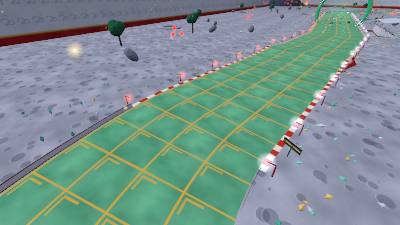
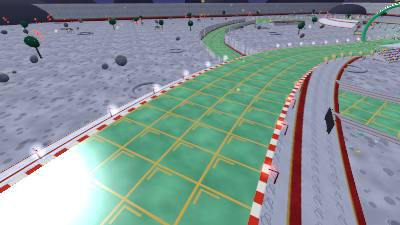
Chang'e: a trefoil knot, over and under itself
The lap is laid out from the trefoil knot's equations, the road's height
its third, so it ties itself round the Moon in three lobes and passes over
or under itself at all three crossings: the Palace Amongst Stars high over
Ten Suns, the Jade Portal's deck over the Astral Planes, the Lonely Moon
over Float in the Bright Night. The jump, the Lyre of Lightning's strings
in their walled cut and the Riding on Moonbeams shortcut stay.

Claude-Session: https://claude.ai/code/session_01MwKJbfE6sfLuUzU5RBUasY

diff --git a/src/tracks/changE.ts b/src/tracks/changE.ts
@@ -1,23 +1,38 @@
 import { TrackBuilder, offsetPose, type Pose } from './builder';
 import type { BranchDef, TrackDef } from './track';
 
-const K = 1.25;
-const START: Pose = { x: 20 * K, z: -220 * K, h: Math.PI / 2 };
+const K = 1.1;
+/**
+ * The lap is a trefoil knot, three lobes and three crossings, the road
+ * rising and falling with it so that at every crossing one road passes over
+ * the other: this many builder units to the knot's unit, and its height,
+ * up and down.
+ */
+const R = 88;
+const H = 9;
+/** A point on the knot at angle `t`, heading along it. */
+function knot(t: number): Pose {
+  const dx = Math.cos(t) + 4 * Math.cos(2 * t);
+  const dz = -Math.sin(t) + 4 * Math.sin(2 * t);
+  return { x: (Math.sin(t) + 2 * Math.sin(2 * t)) * R * K, z: (Math.cos(t) - 2 * Math.cos(2 * t)) * R * K, h: Math.atan2(dx, dz) };
+}
+/** The knot's height at angle `t`: over, under, over, as a knot goes. */
+const lift = (t: number) => -H * Math.sin(3 * t);
+const STEP = Math.PI / 6;
+const START: Pose = knot(0);
 const FINISH = 45;
 /** Sailing the Moon-Sea swings out round the Sea of Tears in three arcs of this radius and turn; Riding on Moonbeams runs straight across. */
-const SEA_R = 42;
-const SEA_TURN = 70;
-/** Cerebral Asteroids: this many humps, this high. */
-const ASTEROIDS = 3;
-const ASTEROID = 2.2;
+const SEA_R = 40;
+const SEA_TURN = 65;
 /** Float in the Bright Night: the Moon's gravity, as a share of the usual. */
 const MOON_G = 0.6;
-/** How deep the Lyre of Lightning is sunk between its walls, and the walls. */
-const DEPTH = 6;
+/** The Lyre of Lightning's walls. */
 const WALL = 6;
-/** The Palace Amongst Stars: a climb to this height and over the top. */
-const PALACE = 10;
-/** The White Rabbit: this many hops. */
+/** How far past the leap the road runs level before it dips, so no cut opens beside the gap. */
+const AFTER_LEAP = 25;
+/** How far the Palace Amongst Stars runs level at the top, over the road below. */
+const PALACE_HOLD = 120;
+/** The White Rabbit: this many hops, this high, on top of the knot's rise. */
 const HOPS = 4;
 const HOP = 1.4;
 
@@ -32,94 +47,88 @@ const HOP = 1.4;
  * the bright night; eclipse sun and moon; lonely moon. The world is the
  * Moon: grey dust and craters, her palace on a hill, osmanthus trees in
  * gold flower, red lanterns floating up into a black sky full of stars. The
- * lap is her lyre: along its soundbox, Ten Suns (two kickers), Sailing the
- * Moon-Sea swinging out round the Sea of Tears; up the right arm, a horn
- * bowing out and curling in (the Scorching Sands, the Cerebral Asteroids'
- * humps, the Jade Portal), Float in the Bright Night (the Moon's gravity,
- * a leap); across the yoke, the Lyre of Lightning, sunk 6 m between marble
- * walls with its strings across the road, plucked one after another; and
- * down the left arm, the Astral Planes' dance, the climb to the Palace
- * Amongst Stars, the White Rabbit's hops, the Eclipse and the Lonely Moon
- * home. Shortcut: Riding on Moonbeams, straight across the Sea of Tears, on
- * the final lap.
+ * lap is a trefoil knot, the voyage tying itself round the Moon: three
+ * lobes, three crossings, and the road rising onto decks and sinking into
+ * cuts as it goes, so it passes over and under itself, over, under, over.
+ * Ten Suns (two kickers), the Cerebral Asteroids, the Scorching Sands up on
+ * a deck, the Jade Portal, Float in the Bright Night (the Moon's gravity, a
+ * leap), the Lyre of Lightning sunk between marble walls with its strings
+ * across the road, plucked one after another; Sailing the Moon-Sea, up to
+ * the Palace Amongst Stars, the Astral Planes, the Eclipse in a cut, the
+ * White Rabbit's hops on the high deck, and the Lonely Moon home. Shortcut:
+ * Riding on Moonbeams, straight across the Sea of Tears, on the final lap.
  */
 export function buildChangE(): TrackDef {
   const b = new TrackBuilder(START, 'Ten Suns', { halfWidth: 11, surface: 'jade' });
   b.scale = K;
-  b.straight(30).mark('kick1').kicker().straight(30).mark('kick2').kicker().straight(40);
-
-  // Up the right arm: a horn, bowing out and curling in.
-  b.section('Scorching Sands', { halfWidth: 10.5, wallHeight: 1.2, surface: 'jade' });
-  b.mark('sands');
-  b.arc(70, -70);
-  b.section('Cerebral Asteroids', { halfWidth: 10, surface: 'jade' });
-  b.mark('asteroids');
-  b.straight(30).arc(120, 25).straight(30);
-  b.mark('asteroidsEnd');
-  b.section('The Jade Portal', { halfWidth: 10, wallHeight: 1.2, surface: 'jade' });
-  b.mark('portal');
-  b.arc(60, -90);
-  b.mark('portalEnd');
+  const to = (k: number) => b.hermiteTo(knot(k * STEP));
+  const deck = (name: string, o: { halfWidth: number; wallHeight?: number; gravity?: number } = { halfWidth: 10, wallHeight: 1.2 }) =>
+    b.section(name, { surface: 'jade', bridge: true, ...o });
+  b.straight(25).mark('kick1').kicker().straight(25).mark('kick2').kicker().straight(10);
+  b.mark('w0');
+  to(1).mark('w1');
+  b.section('Cerebral Asteroids', { halfWidth: 10, wallHeight: 1.2, surface: 'jade' });
+  to(2).mark('w2');
+  deck('Scorching Sands');
+  to(3).mark('w3');
+  deck('The Jade Portal');
+  to(4).mark('w4');
   // Through the portal: the Moon's gravity, and a leap.
   b.section('Float in the Bright Night', { halfWidth: 10, wallHeight: 1.2, surface: 'jade', gravity: MOON_G });
-  b.mark('float');
-  b.straight(10).mark('ramp').elevate(0).rise(18, 3);
+  b.straight(5).mark('ramp').elevate(0).rise(18, 3);
   b.gap(14, 20);
   b.elevate(0).straight(10);
   b.mark('floatEnd');
-  b.arc(45, -45);
-
-  // Across the yoke: the strings of the lyre, made of lightning, across the road between marble walls.
+  to(5).mark('w5');
+  // Sunk between marble walls: the strings of the lyre, made of lightning, across the road.
   b.section('Lyre of Lightning', { halfWidth: 9, wallHeight: WALL, surface: 'jade' });
   b.mark('lyre');
-  b.straight(STRINGS_FROM + STRINGS * STRING_GAP + 30);
-  b.mark('lyreEnd');
-  b.straight(10);
-
-  // On along the yoke, swinging out round the sea of tears.
+  to(6).mark('w6');
   b.section('Sailing the Moon-Sea', { halfWidth: 10.5, surface: 'jade' });
-  b.mark('sea');
-  b.straight(10);
+  b.straight(5);
   b.mark('beamFrom');
   b.arc(SEA_R, SEA_TURN).arc(SEA_R, -2 * SEA_TURN).arc(SEA_R, SEA_TURN);
   b.mark('beamTo');
-  b.straight(20);
-
-  // Down the left arm.
+  b.straight(5);
+  b.mark('seaEnd');
+  to(7).mark('w7');
+  deck('Palace Amongst Stars');
+  to(8).mark('w8');
   b.section('Astral Planes', { halfWidth: 9.5, wallHeight: 1.2, surface: 'jade' });
-  b.mark('planes');
-  b.arc(45, -45);
-  b.arc(28, -40).arc(28, 80).arc(28, -80).arc(28, 40);
-  b.mark('planesEnd');
-  b.section('Palace Amongst Stars', { halfWidth: 10, surface: 'jade' });
-  b.mark('palace');
-  b.arc(60, -90);
-  b.straight(10);
-  b.mark('palaceEnd');
-  b.section('White Rabbit', { halfWidth: 10, surface: 'jade' });
-  b.mark('rabbit');
-  b.arc(120, 25).straight(10);
-  b.mark('rabbitEnd');
-  b.section('Eclipse', { halfWidth: 10.5, wallHeight: 1.2, surface: 'jade' });
-  b.mark('eclipse');
-  b.arc(70, -70);
+  to(9).mark('w9');
+  b.section('Eclipse', { halfWidth: 10, wallHeight: 1.2, surface: 'jade' });
+  to(10).mark('w10');
+  deck('White Rabbit');
+  to(11).mark('w11');
   b.section('Lonely Moon', { halfWidth: 11, surface: 'jade' });
-  b.mark('lonely');
-  b.turnTo(offsetPose(START, -FINISH * K), 50);
+  b.hermiteTo(offsetPose(START, -FINISH * K));
   b.section('Finish Straight', { halfWidth: 11, surface: 'jade' });
   b.mark('finish');
   b.straight(FINISH);
 
   const m = (name: string, d = 0) => b.marks[name].s + d * K;
-  b.profile(m('asteroids'), m('asteroidsEnd'), (u) => ASTEROID * Math.sin(Math.PI * ASTEROIDS * u) ** 2);
-  ease(b, m('lyre', 5), 0, m('lyre', 40), -DEPTH);
-  b.profile(m('lyre', 40), m('lyreEnd', -30), () => -DEPTH, 10);
-  ease(b, m('lyreEnd', -30), -DEPTH, m('lyreEnd', 10), 0);
-  // Up to the palace and over the top.
-  ease(b, m('palace'), 0, m('palace', 80), PALACE);
-  plunge(b, m('palace', 80), PALACE, m('rabbit', 10), 0);
-  // The rabbit's hops.
-  b.profile(m('rabbit', 15), m('rabbitEnd'), (u) => HOP * Math.sin(Math.PI * HOPS * u) ** 2);
+  // The knot's rise and fall, each point at its own angle on the knot; the kickers, the leap and the moon-sea's swing level.
+  const ends = [m('w0'), m('w1'), m('w2'), m('w3'), m('w4'), m('w5'), m('w6'), m('w7'), m('w8'), m('w9'), m('w10'), m('w11'), m('finish')];
+  const tOf = (s: number) => {
+    for (let k = 0; k + 1 < ends.length; k++) if (s <= ends[k + 1]) return (k + (s - ends[k]) / (ends[k + 1] - ends[k])) * STEP;
+    return 2 * Math.PI;
+  };
+  /** The knot's height from `from` to `to`, its angles there stretched to run from t0 to t1. */
+  const knotted = (from: number, to: number, t0: number, t1: number) => {
+    const a = tOf(from);
+    const z = tOf(to);
+    b.profile(from, to, (u) => lift(t0 + ((tOf(from + (to - from) * u) - a) / (z - a)) * (t1 - t0)));
+  };
+  knotted(m('kick2', 12), m('w4'), 0, 4 * STEP);
+  b.profile(m('floatEnd'), m('floatEnd', AFTER_LEAP), () => 0, 10);
+  knotted(m('floatEnd', AFTER_LEAP), m('w6'), 4 * STEP, 6 * STEP);
+  knotted(m('seaEnd'), m('w7'), 6 * STEP, 7 * STEP);
+  knotted(m('w7'), m('finish'), 7 * STEP, 12 * STEP);
+  // The Palace stays up among the stars until it has passed over Ten Suns, then comes down.
+  b.profile(m('w7'), m('w7', PALACE_HOLD), () => H, 10);
+  b.profile(m('w7', PALACE_HOLD), m('w8'), (u) => H * (1 - u * u * (3 - 2 * u)));
+  // The rabbit's hops, on the high deck.
+  b.profile(m('w10', 20), m('w11', -20), (u) => lift(tOf(m('w10', 20) + (m('w11', -20) - m('w10', 20)) * u)) + HOP * Math.sin(Math.PI * HOPS * u) ** 2);
 
   const main = b.finish(true);
   const beam = buildMoonbeams(b.marks.beamFrom, b.marks.beamTo);
@@ -133,23 +142,23 @@ export function buildChangE(): TrackDef {
     pits: [...b.pits, ...beam.pits],
     boostPads: [
       { s: 40, length: 8, lateral: 0, halfWidth: 2.5 },
-      { s: at('portalEnd', 2), length: 8, lateral: 0, halfWidth: 2.5 },
-      { s: at('planesEnd', 5), length: 8, lateral: 0, halfWidth: 2.5 },
+      { s: at('w4', -20), length: 8, lateral: 0, halfWidth: 2.5 },
+      { s: at('w9', 20), length: 8, lateral: 0, halfWidth: 2.5 },
     ],
-    checkpoints: ['sands', 'portal', 'float', 'lyre', 'sea', 'planes', 'palace', 'rabbit', 'eclipse'].map((k) => b.marks[k].s / main.length),
+    checkpoints: ['w1', 'w2', 'w3', 'w4', 'w5', 'w6', 'w7', 'w8', 'w9', 'w10', 'w11'].map((k) => b.marks[k].s / main.length),
     laps: 3,
     bounds: 440,
     landmarks: [
       { kind: 'jadePortal', ribbon: -1, s: 6 },
-      { kind: 'jadePortal', ribbon: -1, s: at('portalEnd', 1) },
-      { kind: 'moonPalace', ribbon: -1, s: at('palace', 60), lateral: 160 },
+      { kind: 'jadePortal', ribbon: -1, s: at('w4', -3) },
+      { kind: 'moonPalace', ribbon: -1, s: at('w7', 30), lateral: -330 },
     ],
     itemBoxes: [
       { s: 75, count: 4 },
-      { s: at('sands', 20), count: 4 },
-      { s: at('lyre', 15), count: 3 },
-      { s: at('palace', 30), count: 3 },
-      { s: at('eclipse', 20), count: 4 },
+      { s: at('w2', 30), count: 4 },
+      { s: at('lyre', 20), count: 3 },
+      { s: at('w7', 40), count: 3 },
+      { s: at('w9', 40), count: 4 },
       { s: beam.boxes, count: 1, ribbon: 0, double: true },
     ],
     hazards: [{ kind: 'strings', at: strings, period: 4.4 }],
@@ -162,16 +171,6 @@ export function buildChangE(): TrackDef {
 const STRINGS = 5;
 const STRING_GAP = 14;
 const STRINGS_FROM = 45;
-
-/** Eases the road's height from y0 at arc length s0 to y1 at s1. */
-function ease(b: TrackBuilder, s0: number, y0: number, s1: number, y1: number): void {
-  b.profile(s0, s1, (u) => y0 + (y1 - y0) * u * u * (3 - 2 * u));
-}
-
-/** Drops the road from y0 at s0 to y1 at s1, falling away at once over the top (a crest to fly off) and easing out at the bottom. */
-function plunge(b: TrackBuilder, s0: number, y0: number, s1: number, y1: number): void {
-  b.profile(s0, s1, (u) => y0 + (y1 - y0) * Math.sin((Math.PI * u) / 2));
-}
 
 /**
  * Riding on Moonbeams: a beam of moonlight laid straight across the Sea of

diff --git a/tests/tracks-silver-cord.test.ts b/tests/tracks-silver-cord.test.ts
@@ -85,7 +85,7 @@ describe('Silver Cord Cup', () => {
     expect(new Set(all).size).toBe(all.length);
   });
 
-  it("is laid out after its song: Theia's two orbits tangled in tiers, Set's tornado, Chang'e's lyre on the Moon, Gilgamesh's thirteen winds", () => {
+  it("is laid out after its song: Theia's two orbits tangled in tiers, Set's tornado, Chang'e's knot on the Moon, Gilgamesh's thirteen winds", () => {
     const section = (def: TrackDef, name: string) => def.main.sections.find((s) => s.name === name)!;
     const theia = buildTheia();
     for (const n of ['The Glowing Thread', 'Higher Divine', 'Force of Destiny', 'Ticking Clock', 'Spiritual Rebirth', 'Fate Intertwined', 'The Impact', 'The Snap', 'Dance with Theia', 'Meet Our Maker', 'Mortal Coil', "Theia's Void", 'Gravitational Waves', 'Astral Beach']) expect(section(theia, n), n).toBeTruthy();
@@ -133,6 +133,10 @@ describe('Silver Cord Cup', () => {
     const lyre = section(moon, 'Lyre of Lightning');
     expect('at' in strings && strings.at.length).toBe(5);
     for (const s of 'at' in strings ? strings.at : []) expect(s > lyre.from && s < lyre.to).toBe(true);
+    // A trefoil knot: it crosses itself three times, one road over the other each time.
+    const knot = crossings(new Track(moon));
+    expect(knot.length).toBe(3);
+    for (const dy of knot) expect(dy).toBeGreaterThan(6);
 
     const gil = buildGilgamesh();
     for (const n of ['Walls of Uruk', 'Fiery Temper', 'Shamash Combat', 'A Prayer from the Peaks', 'Glorious Photon', 'Bone-Dried Swamplands', 'The Scorpion Pass', 'Gemstone Trees', 'The Razorback', 'Thirteen Winds', 'Killed the Bull', 'Crossed the Sea', 'The Flood', 'Land of Bone', 'House of Dust']) expect(section(gil, n), n).toBeTruthy();
@@ -436,6 +440,24 @@ describe('hazards that help when you use them', () => {
   });
 });
 
+/** Where the main road crosses itself: for each crossing, the least height between the two roads there. */
+function crossings(track: Track): number[] {
+  const sp = track.spline;
+  const found: { i: number; j: number; dy: number }[] = [];
+  for (let i = 0; i < sp.count; i += 4) {
+    for (let j = i; j < sp.count; j += 4) {
+      const along = sp.dist[j] - sp.dist[i];
+      if (Math.min(along, sp.length - along) < 120) continue;
+      if (Math.hypot(sp.px[i] - sp.px[j], sp.pz[i] - sp.pz[j]) > 4) continue;
+      const dy = Math.abs(track.main.heightAt(sp.dist[i]) - track.main.heightAt(sp.dist[j]));
+      const near = found.find((c) => Math.abs(sp.dist[c.i] - sp.dist[i]) < 60 && Math.abs(sp.dist[c.j] - sp.dist[j]) < 60);
+      if (near) near.dy = Math.min(near.dy, dy);
+      else found.push({ i, j, dy });
+    }
+  }
+  return found.map((c) => c.dy);
+}
+
 /** A kart sitting on a hazard's line across the road, `lateral` metres to the right of the hazard's pose. */
 function aside(p: HazardPose, lateral: number): KartState {
   const k = kartAt(p);
@@ -448,7 +470,7 @@ function aside(p: HazardPose, lateral: number): KartState {
 const HEIGHTS: { name: string; build: () => TrackDef; top: number; bottom: number }[] = [
   { name: 'Theia', build: buildTheia, top: 9, bottom: -5 },
   { name: 'Set', build: buildSet, top: 13, bottom: -5 },
-  { name: "Chang'e", build: buildChangE, top: 9, bottom: -5 },
+  { name: "Chang'e", build: buildChangE, top: 9, bottom: -7 },
   { name: 'Gilgamesh', build: buildGilgamesh, top: 12, bottom: -5 },
 ];
 

diff --git a/SPEC.md b/SPEC.md
@@ -139,7 +139,7 @@ A new cup is an album's: four of its songs, in album order, and the cup goes int
 1. Check the songs first. Pick four the band plays live with recordings on the Live Music Archive (for Track song and to transcribe the remix from); tabs on Ultimate Guitar settle the riffs and chords. If four can't be found, stop.
 2. Read each song's lyrics, start to finish, and what the band has said about it (interviews, the album's notes, the video). Note its story, who's in it, where it happens, its images and its key lines; the track is built from these, not from the title alone.
 3. Draw each track from its song's content: the world (where the song happens, or its video), the lap's shape (Elbow is an arm, Muckraker a rake, Cut Throat Boogie a razor), the section names (its lines and story, in the order the song tells them), a landmark, a hazard that acts out the song, and a shortcut. No two tracks of the cup alike.
-4. Lay out the lap in `src/tracks/<id>.ts` with `TrackBuilder` (straight, arc, kicker, rise, gap, bridge, profile, marks, `turnTo` to close the loop). Mix it up: bends and esses between the straights, hills and a crest, a sunk section, a jump, no long run of straight road. A tangled lap is better than a plain one: where the road crosses itself, stack it in tiers on bridges (`bridge` sections, more than 6 m between one level and the next: a deck over the ground, a top tier over that, a cut under it), as Theia's three levels and Gilgamesh's viaduct do. A lap much longer than the rest is two laps a race (`laps: 2`). `enrich.ts` adds humps, pads and launchers on its own; a launcher needs a jump gap or a clear, even straight, so give each track a main-road jump. A shortcut opens on a lap rule (final lap, from lap 2, every lap).
+4. Lay out the lap in `src/tracks/<id>.ts` with `TrackBuilder` (straight, arc, kicker, rise, gap, bridge, profile, marks, `turnTo` to close the loop). Mix it up: bends and esses between the straights, hills and a crest, a sunk section, a jump, no long run of straight road. A tangled lap is better than a plain one: where the road crosses itself, stack it in tiers on bridges (`bridge` sections, more than 6 m between one level and the next: a deck over the ground, a top tier over that, a cut under it), as Theia's three levels, Chang'e's knot and Gilgamesh's viaduct do. A lap much longer than the rest is two laps a race (`laps: 2`). `enrich.ts` adds humps, pads and launchers on its own; a launcher needs a jump gap or a clear, even straight, so give each track a main-road jump. A shortcut opens on a lap rule (final lap, from lap 2, every lap).
 5. Wire it: the tracks into `RAW_TRACK_LIST` and the cup into `CUPS` (`src/tracks/index.ts`; the cups after it shift, so update the index-based tests), new landmark kinds, themes, hazards and surfaces in `track.ts`, the world in `themes.ts`, `textures.ts`, `trackDetail.ts` (STYLES), `trackLife.ts` (LIFE), `trackView.ts` and the generator's palettes, and the cup's scenery and landmarks in `src/render/<cup>.ts`.
 6. The hazard: in `src/items/hazards.ts`, a pure function of time with poses and a collide (a hit, and a reward for playing it right, with a cooldown); `isSheet`, `HOPPABLE` and `RAMMABLE` where they apply; its look in `itemViews.ts`, its callouts in `game.ts` and its sound in `sfx.ts`.
 7. The songs: `TRACK_SONGS` in `audio/songs.ts`; live recordings with `tools/bootlegs.mjs`, each trimmed to the music with `tools/live-edges.py` (`start` and `end`) and evened with `tools/bootleg-starts.mjs` (`gain`).
@@ -293,11 +293,11 @@ New hazards, each with a way to use it: eyes (an eye opens over the road and an 
 
 ### The Silver Cord Cup
 
-After The Silver Cord (2023), the band's synth album about the silver cord that ties the soul to the body, and the old gods: four of its songs in album order, each the band plays live, each track laid out after its song's lyrics (its world, its lap's shape, its section names and its hazard), a lap and final-lap remix of it, and live recordings of it for Track song. Race order: Theia, Set, Chang'e, Gilgamesh. Theia and Gilgamesh are long laps that tangle over themselves on bridges in tiers, so their races are two laps.
+After The Silver Cord (2023), the band's synth album about the silver cord that ties the soul to the body, and the old gods: four of its songs in album order, each the band plays live, each track laid out after its song's lyrics (its world, its lap's shape, its section names and its hazard), a lap and final-lap remix of it, and live recordings of it for Track song. Race order: Theia, Set, Chang'e, Gilgamesh. Theia, Chang'e and Gilgamesh tangle over themselves on bridges in tiers; Theia and Gilgamesh are long laps, so their races are two laps.
 
 1. Theia (Theia): the planet that hits the young Earth and makes the Moon, "a force of destiny, fate intertwined with that of earth"; when it hits, "the silver cord did snap". The young Earth under a vast and honeyed sky, a black crust cooling over the magma ocean, glowing through every crack, Theia huge in the sky and coming on, on a road of braided silver cord. Two orbits tangled: the Glowing Thread (two kickers), the Higher Divine, the Force of Destiny, the Ticking Clock's six ticks and Spiritual Rebirth round one orbit; Fate Intertwined right across the map and back over the Glowing Thread on an 8 m deck, the Impact over the crossing, the Snap (a leap over a crack of magma), Dance with Theia, Meet Our Maker and the Mortal Coil (a spiral, up on a deck over the Ticking Clock) round the other, down into Theia's Void, sunk 8 m between walls of crust, silver cords across it (taut, drive through and they sling you on; fraying, then snapping and lashing back to the walls: lashed, you spin), the Gravitational Waves, and the Astral Beach on the top tier, 16 m up over the Impact and Fate Intertwined, home. Three levels at the crossing. Shortcut: the Silver Cord itself, a bridge immortal and unspoken straight across a magma lake, there on the first lap and snapped on the last. Landmarks: a gate of black glass spires with the cord slung between them, and Theia in the sky. Scenery: magma pools, glass spires, steam vents, spirits drifting up, silver threads rising into the sky
 2. Set (Set): the jackal-headed god of the desert, storms and chaos, "God of duality and king of the fight, right eye the sun and left the moon's light"; "slay the mighty Set". The red land at the edge of day and night, the sun going down one side and the moon up the other, obelisks and the god's statues, a colossus of Set sat in the sand, on a road of sandstone carved with hieroglyphs. Through the Desert (two kickers), out along the Snout of a Jackal and back round its tip, the Tail of a Snake, Moonbeams over a crest, the Quantum Foam, the Tornado (a full turn climbing to 14 m over the road below) and Thrown Around off the top, Bones Did Shatter (a leap over a ravine), Slay the Mighty Set sunk 6 m between temple walls, his two eyes rolling across the road past each other (touch the sun and you're scorched and spun; through the moon, a moonbeam boost), Day into Night (squeezed narrowest), Eighty Years of Conflict, and Hieroglyphic home. Shortcut: the Tomb, straight through a pyramid, unsealed from lap 2
-3. Chang'e (Chang'e): the goddess of the Moon, her lyre of flesh and bone strung with lightning, 2500 volts; the jade portal, the moon-sea of tears, the palace amongst the stars, the white rabbit beside her. The Moon: grey dust and craters, osmanthus in gold flower, red lanterns floating up into a black sky full of stars, her palace on a hill, on a road of jade inlaid with gold. The lap is her lyre: along the soundbox, Ten Suns (two kickers); up the right arm, a horn bowing out and curling in (the Scorching Sands, the Cerebral Asteroids' humps, the Jade Portal), Float in the Bright Night (the Moon's gravity, a leap); across the yoke, the Lyre of Lightning sunk 6 m between marble walls with its five strings across the road, plucked one after another (a bolt as it's plucked spins you; still humming after, a boost: ride the arpeggio), and Sailing the Moon-Sea; down the left arm, the Astral Planes, the climb to the Palace Amongst Stars, the White Rabbit's hops, the Eclipse and the Lonely Moon. Shortcut: Riding on Moonbeams, straight across the Sea of Tears, on the final lap
+3. Chang'e (Chang'e): the goddess of the Moon, her lyre of flesh and bone strung with lightning, 2500 volts; the jade portal, the moon-sea of tears, the palace amongst the stars, the white rabbit beside her. The Moon: grey dust and craters, osmanthus in gold flower, red lanterns floating up into a black sky full of stars, her palace on a hill, on a road of jade inlaid with gold. The lap is a trefoil knot, the voyage tying itself round the Moon: three lobes and three crossings, the road rising onto decks and sinking into cuts with the knot (9 m up, 9 m down), so it passes over, under, over itself. Ten Suns (two kickers), the Cerebral Asteroids in a cut, the Scorching Sands and the Jade Portal on a deck, Float in the Bright Night (the Moon's gravity, a leap), the Lyre of Lightning sunk between marble walls with its five strings across the road, plucked one after another (a bolt as it's plucked spins you; still humming after, a boost: ride the arpeggio), Sailing the Moon-Sea, the Palace Amongst Stars high over Ten Suns, the Astral Planes, the Eclipse, the White Rabbit's hops on the high deck, and the Lonely Moon home. Shortcut: Riding on Moonbeams, straight across the Sea of Tears, on the final lap
 4. Gilgamesh (Gilgamesh): the cup's finale, the hero of the oldest epic: a fiery temper, Shamash the sun-god, a prayer of shelter from the peaks, a glorious photon, the scorpions guarding the pass, gemstone trees, thirteen winds, killed the bull, crossed the sea, swam the flood, "c'mon snake, punish me, for immortality", the house of dust. Uruk and the road out of it under a storm: mud brick, blue glazed walls with striding lions, the ziggurat, dry swamp, giant scorpions, trees of gemstones, on a road of baked brick stamped with cuneiform. A figure of eight: the Walls of Uruk (two kickers), the Fiery Temper's Z of hairpins, Shamash Combat, switchbacks up to a Prayer from the Peaks, then the Glorious Photon flying down a 13 m viaduct right across the land; the Bone-Dried Swamplands, the Scorpion Pass sunk 6 m (the plant of immortality grows up through the road and the snake comes across for it: reach it first for a long boost; the snake bites, unless hopped), the Gemstone Trees, the Razorback's ridge, the Thirteen Winds (thirteen bends) beneath the photon's viaduct, Killed the Bull, Crossed the Sea (a leap over the water), the Flood, the Land of Bone and the House of Dust home. Shortcut: Swam the Flood, diving under the floodwater, on every lap
 
 ### Generated tracks

diff --git a/docs/DEVELOPMENT.md b/docs/DEVELOPMENT.md
@@ -75,7 +75,7 @@ Milestones 1 to 7 are in (driving feel, the Rattlesnake greybox, CPU racers, ite
 - The Silver Cord Cup, after the 2023 synth album, four of its songs in album order, each track drawn from the song's lyrics (scenery and landmarks in `src/render/silverCord.ts`, tests in tests/tracks-silver-cord.test.ts):
   - Theia (`src/tracks/theia.ts`): two orbits tangled in three tiers (`TIER` and `TOP`: the Impact and Fate Intertwined on a deck over the Glowing Thread, the Mortal Coil over the Ticking Clock, the Astral Beach over both), silver cords across Theia's Void (`cords`, `CORD_STAGES`: taut, a slingshot; snapped, they lash), the Silver Cord shortcut gone on the final lap, two laps a race, Theia in the sky (`theiaPlanet`)
   - Set (`src/tracks/set.ts`): the jackal's snout, the Tornado climbing a full turn over the road below, the sun and the moon rolling across Slay the Mighty Set (`sunMoon`, `SUN_RADIUS`, `HazardPose.gap` is the sun's lateral, the moon at -gap), the Tomb from lap 2, a colossus of Set (`setColossus`)
-  - Chang'e (`src/tracks/changE.ts`): the lap is her lyre; the Moon's gravity on Float in the Bright Night (`gravity`), lightning strings across the Lyre of Lightning plucked in turn (`strings`, `STRING_STAGES`, `STRING_LAG`: a bolt as it's plucked, a boost while it hums), Riding on Moonbeams on the final lap, her palace (`moonPalace`)
+  - Chang'e (`src/tracks/changE.ts`): the lap is a trefoil knot (`knot`, `lift`: laid out from the knot's equations, the road's height its third, so every crossing passes over or under); the Moon's gravity on Float in the Bright Night (`gravity`), lightning strings across the Lyre of Lightning plucked in turn (`strings`, `STRING_STAGES`, `STRING_LAG`: a bolt as it's plucked, a boost while it hums), Riding on Moonbeams on the final lap, her palace (`moonPalace`)
   - Gilgamesh (`src/tracks/gilgamesh.ts`): the cup's finale, a figure of eight, the Glorious Photon's 13 m viaduct over the Thirteen Winds, switchbacks up to the peaks, the plant of immortality and the snake (`serpents`, `SERPENT_STAGES`, `serpentAcross`, `HazardPose.lane` is 1 while the plant is there and `gap` its lateral), Swam the Flood diving under on every lap, two laps a race, the ziggurat (`ziggurat`)
 - The Mind Fuzz Cup, after the suite that opens I'm in Your Mind Fuzz (2014), its four songs in order, four new worlds with their own landmark, scenery, hazard and a remix each (scenery and landmarks in `src/render/mindfuzz.ts`, tests in tests/tracks-mind-fuzz.test.ts):
   - I'm in Your Mind (`src/tracks/imInYourMind.ts`): an eye opening over the road and flashing an arrow, then reading your mind (`eyes`, `EYE_STAGES`, `HazardPose.side` is the half the arrow points to: a boost there, a blast on the other half), 6 m walls of brain (`brainWallTexture`), the Subconscious sunk 7 m, the Open Mind from lap 2, the face off the album's cover in the infield (`mindFace`, eyes from `eyeFigure`)

diff --git a/README.md b/README.md
@@ -18,7 +18,7 @@ No install and no account. It will always be free. **[The manual](https://www.gi
   - **Omnium Gatherum Cup:** Magenta Mountain, Kepler-22b, The Garden Goblin, Predator X
   - **Ice, Death, Planets, Lungs, Mushrooms and Lava Cup:** Ice V, Magma, Iron Lung, Gliese 710
   - **PetroDragonic Apocalypse Cup:** Motor Spirit, Supercell, Dragon, Flamethrower
-  - **Silver Cord Cup:** the synth album, in album order: Theia, Set, Chang'e, Gilgamesh, Theia and Gilgamesh tangling over themselves on bridges in tiers
+  - **Silver Cord Cup:** the synth album, in album order: Theia, Set, Chang'e, Gilgamesh, Theia, Chang'e (a trefoil knot) and Gilgamesh tangling over themselves on bridges in tiers
   - **Phantom Island Cup:** Phantom Island, Deadstick, Panpsych, Sea of Doubt
 - **Roller-coaster tracks:** climbs onto pillared decks, plunges you fly off, canyons sunk into the ground, and a causeway that dives under the lagoon
 - **Launchers and gliders:** a glowing ramp on the lip of every track's big jump (and on a long straight where there's no jump) throws you high, and a trick off it opens your glider, so the leap is a glide you can steer. Up climbs (trading speed for height), down dives (picking speed up)
